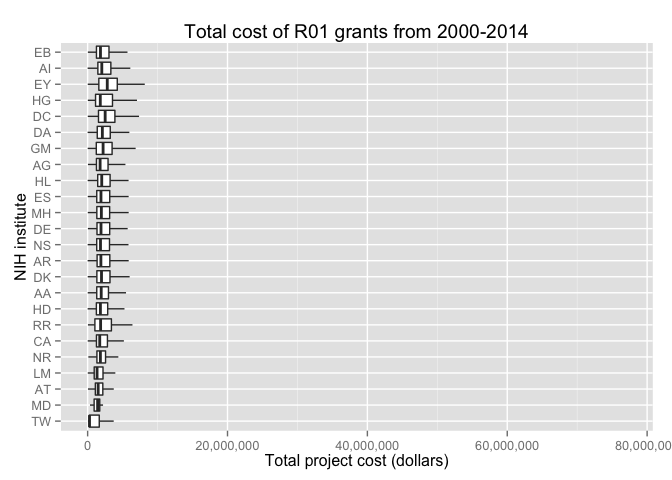
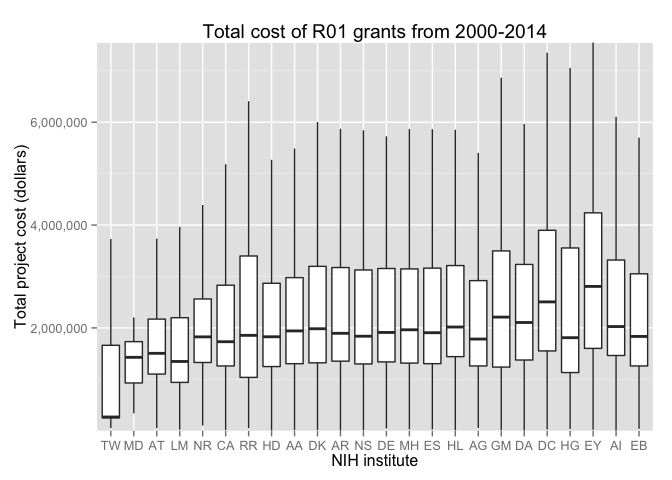
nicer plot for github page

Changed region(s): [[0.0, 0.0312, 1.0, 0.9688]]

diff --git a/README.md b/README.md
@@ -80,9 +80,13 @@ project_costs <- projects %>%
   left_join(project_io) %>%
   select(institute, project.cost)
 
+# calculate whisker limits 
+# http://stackoverflow.com/questions/5677885/ignore-outliers-in-ggplot2-boxplot
+lims <- boxplot.stats(project_costs$project.cost)$stats[c(1, 5)]
+
 ggplot(project_costs, aes(reorder(institute, project.cost, mean, order=TRUE), project.cost)) +
   geom_boxplot(outlier.shape = NA) +
-  coord_flip() +
+  coord_cartesian(ylim = lims * 1.25) +
   scale_y_continuous(labels = comma) +
   ylab('Total project cost (dollars)') +
   xlab('NIH institute') + 
